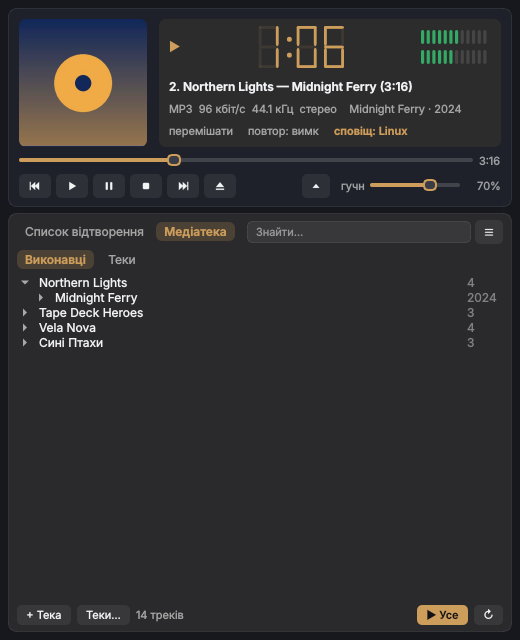
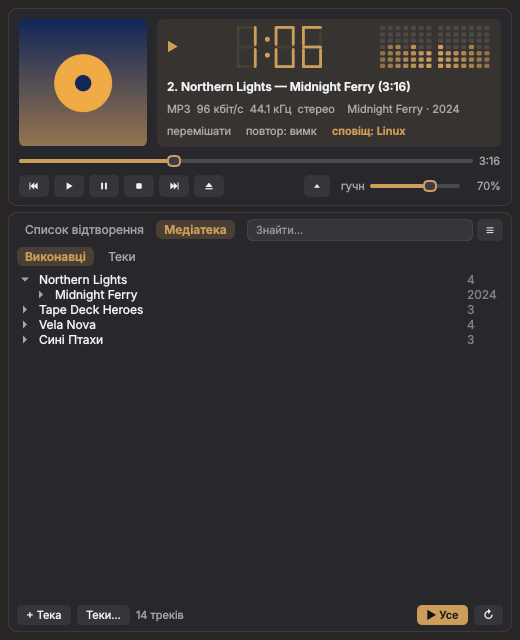
Release 1.3.2: vertical level visualisation, cover-tinted window, tighter compact view
Claude-Session: https://claude.ai/code/session_01HZx8mLPDwnePxQZhdkCTi1

diff --git a/src/plativka/gui.py b/src/plativka/gui.py
@@ -257,59 +257,58 @@ class LcdClock(QWidget):
         p.end()
 
 
-class VuMeter(QWidget):
-    """Індикатор рівня L/R: вертикальні «смужки» (табло) або один рядок (компактний вигляд)."""
+class LevelBars(QWidget):
+    """Візуалізація звуку вертикальними «світлодіодними» стовпчиками.
 
-    def __init__(self, horizontal=False):
+    Посередині — щойно зігране, до країв — кілька секунд тому: ліворуч лівий канал,
+    праворуч правий. Тож видно і гучність, і стерео, і як вона змінювалась.
+    """
+
+    def __init__(self, cols: int = 16, rows: int = 7):
         super().__init__()
-        self.horizontal = horizontal
-        self.levels = [0.0, 0.0]
-        self.peaks = [0.0, 0.0]
-        self.enabled_ = True
+        from collections import deque
+        self.cols, self.rows = cols, rows
+        half = cols // 2
+        self.hist = [deque([0.0] * half, maxlen=half), deque([0.0] * half, maxlen=half)]
+        self.color = QColor("#0E7C84")
         self.dark = False
-        if horizontal:
-            self.setFixedHeight(9)
-        else:
-            self.setFixedSize(70, 34)
+        self.enabled_ = True
 
     def show_levels(self, levels, peaks, ok):
-        self.levels, self.peaks, self.enabled_ = list(levels), list(peaks), ok
+        self.enabled_ = ok
+        for ch in (0, 1):
+            self.hist[ch].append(levels[ch] if ok else 0.0)
         self.update()
 
     def paintEvent(self, e):
         p = QPainter(self)
         p.setRenderHint(QPainter.Antialiasing)
         p.setPen(Qt.NoPen)
-        lo, mid, hi = QColor(52, 170, 100), QColor(214, 168, 30), QColor(222, 84, 58)
-        off = QColor(255, 255, 255, 30) if self.dark else QColor(0, 0, 0, 26)
-        n = 18 if self.horizontal else 12
-        for ch in range(2):
-            lv = self.levels[ch] if self.enabled_ else 0
-            pk = self.peaks[ch] if self.enabled_ else 0
-            for i in range(n):
-                f = i / (n - 1)
-                c = lo if f < .62 else mid if f < .86 else hi
-                lit = f <= lv
-                peak = abs(f - pk) < .5 / n and pk > .05
-                p.setBrush(c if (lit or peak) else off)
-                if self.horizontal:
-                    half = (self.width() - 34) / 2
-                    bw = half / n
-                    x0 = ch * (half + 34) + 14
-                    p.drawRoundedRect(QRectF(x0 + i * bw, 2, bw - 3, self.height() - 4), 1.5, 1.5)
+        half = self.cols // 2
+        gap_mid = 4.0
+        cw = (self.width() - gap_mid) / self.cols
+        rh = self.height() / self.rows
+        off = QColor(255, 255, 255, 26) if self.dark else QColor(0, 0, 0, 22)
+        warm, hot = QColor(226, 168, 34), QColor(222, 80, 58)
+        for c in range(self.cols):
+            if c < half:
+                v = self.hist[0][c]                    # ліворуч: старіше → новіше до центру
+                x = c * cw
+            else:
+                v = self.hist[1][self.cols - 1 - c]    # праворуч: новіше біля центру
+                x = c * cw + gap_mid
+            lit = round(v * self.rows)
+            age = (c if c < half else self.cols - 1 - c) / max(1, half - 1)   # 0 — найстаріше
+            for r in range(self.rows):
+                f = r / max(1, self.rows - 1)
+                if r < lit:
+                    col = QColor(self.color) if f < .6 else (warm if f < .85 else hot)
+                    col.setAlphaF(0.6 + 0.4 * age)
                 else:
-                    bw = (self.width() - 2) / n
-                    hh = (self.height() - 6) / 2
-                    p.drawRoundedRect(QRectF(i * bw, ch * (hh + 6), bw - 2.5, hh), 1.5, 1.5)
-        if self.horizontal:
-            p.setPen(QColor(150, 150, 150))
-            f = QFont(self.font())
-            f.setPointSizeF(7.5)
-            f.setBold(True)
-            p.setFont(f)
-            half = (self.width() - 34) / 2
-            p.drawText(QRectF(0, 0, 12, self.height()), Qt.AlignCenter, "L")
-            p.drawText(QRectF(half + 20, 0, 12, self.height()), Qt.AlignCenter, "R")
+                    col = off
+                p.setBrush(col)
+                y = self.height() - (r + 1) * rh
+                p.drawRoundedRect(QRectF(x + 1, y + 1, cw - 2.5, rh - 2), 1.2, 1.2)
         p.end()
 
 
@@ -632,7 +631,8 @@ class MainWindow(QMainWindow):
         self.clock = LcdClock()
         self.clock.clicked.connect(self.toggle_remaining)
         r1.addWidget(self.clock, 1)
-        self.vu = VuMeter()
+        self.vu = LevelBars(14, 7)
+        self.vu.setFixedSize(112, 44)
         r1.addWidget(self.vu, 0, Qt.AlignVCenter)
         lv.addLayout(r1)
         lv.addSpacing(6)
@@ -649,8 +649,6 @@ class MainWindow(QMainWindow):
             w.setMinimumWidth(10)
             w.setSizePolicy(QSizePolicy.Ignored, QSizePolicy.Preferred)
             lv.addWidget(w)
-        self.mini_vu = VuMeter(horizontal=True)
-        lv.addWidget(self.mini_vu)
         flags = QHBoxLayout()
         flags.setSpacing(14)
         self.f_shuffle = Clickable()
@@ -664,10 +662,15 @@ class MainWindow(QMainWindow):
         flags.addStretch()
         lv.addLayout(flags)
         top.addWidget(self.lcd, 1)
+        self.mini_vu = LevelBars(12, 6)          # компактний вигляд: стовпчики праворуч від назви
+        self.mini_vu.setFixedSize(92, 40)
+        top.addWidget(self.mini_vu, 0, Qt.AlignVCenter)
+        self.top_row = top
         cl.addLayout(top)
 
         sr = QHBoxLayout()
         self.seek = SeekSlider()
+        self.seek.setFixedHeight(16)
         self.seek.seek.connect(lambda f: self.spawn(self.seek_frac(f)))
         sr.addWidget(self.seek, 1)
         self.time = QLabel("-:--")
@@ -687,8 +690,8 @@ class MainWindow(QMainWindow):
                 ("eject", "eject", _("Додати теку до списку"), self.add_playlist_folder)):
             b = QToolButton()
             b.setProperty("glyph", glyph)
-            b.setIconSize(QSize(14, 14))
-            b.setFixedSize(32, 24)
+            b.setIconSize(QSize(12, 12))
+            b.setFixedSize(30, 22)
             b.setToolTip(tip)
             b.setObjectName("tbtn")
             b.setCursor(Qt.PointingHandCursor)
@@ -698,8 +701,8 @@ class MainWindow(QMainWindow):
         tr.addStretch()
         self.pin = QToolButton()
         self.pin.setProperty("glyph", "pin")
-        self.pin.setIconSize(QSize(14, 14))
-        self.pin.setFixedSize(28, 24)
+        self.pin.setIconSize(QSize(12, 12))
+        self.pin.setFixedSize(26, 22)
         self.pin.setToolTip(_("Поверх усіх вікон"))
         self.pin.setObjectName("tbtn")
         self.pin.setCheckable(True)
@@ -707,8 +710,8 @@ class MainWindow(QMainWindow):
         self.pin.clicked.connect(self.toggle_on_top)
         tr.addWidget(self.pin)
         self.collapse_btn = QToolButton()
-        self.collapse_btn.setIconSize(QSize(14, 14))
-        self.collapse_btn.setFixedSize(28, 24)
+        self.collapse_btn.setIconSize(QSize(12, 12))
+        self.collapse_btn.setFixedSize(26, 22)
         self.collapse_btn.setObjectName("tbtn")
         self.collapse_btn.setCursor(Qt.PointingHandCursor)
         self.collapse_btn.clicked.connect(self.toggle_collapsed)
@@ -721,6 +724,7 @@ class MainWindow(QMainWindow):
         self.vol = QSlider(Qt.Horizontal)
         self.vol.setRange(0, 100)
         self.vol.setFixedWidth(90)
+        self.vol.setFixedHeight(16)
         self.vol.setValue(self.volume)
         self.vol.valueChanged.connect(self._vol_moved)
         tr.addWidget(self.vol)
@@ -756,8 +760,8 @@ class MainWindow(QMainWindow):
         head.addWidget(self.search, 1)
         self.menu_btn = QToolButton()
         self.menu_btn.setProperty("glyph", "menu")
-        self.menu_btn.setIconSize(QSize(14, 14))
-        self.menu_btn.setFixedSize(28, 24)
+        self.menu_btn.setIconSize(QSize(12, 12))
+        self.menu_btn.setFixedSize(26, 22)
         self.menu_btn.setObjectName("tbtn")
         self.menu_btn.setPopupMode(QToolButton.InstantPopup)
         head.addWidget(self.menu_btn)
@@ -914,14 +918,29 @@ class MainWindow(QMainWindow):
         sec = tune(self.accent_rgb, dark, .09)
         self.clock.color = QColor(acc)
         self.vu.dark = self.mini_vu.dark = dark
+        self.vu.color = self.mini_vu.color = QColor(acc)
         if self.mica:
             apply_mica(self, dark)
         glass = self.mica
         fg = "#F2F3F5" if dark else "#1A1D24"
         sub = "rgba(255,255,255,0.58)" if dark else "rgba(0,0,0,0.52)"
-        bg = "transparent" if glass else ("#16181E" if dark else "#ECEFF4")
-        card = ("rgba(255,255,255,0.05)" if dark else "rgba(255,255,255,0.58)") if glass else \
-            ("#1E2129" if dark else "#F7F8FB")
+        a = QColor(acc)
+
+        def blend(base: str, k: float) -> str:
+            b = QColor(base)
+            return QColor(round(b.red() + (a.red() - b.red()) * k), round(b.green() + (a.green() - b.green()) * k),
+                          round(b.blue() + (a.blue() - b.blue()) * k)).name()
+
+        def tint(base: str, k: float, alpha: float) -> str:
+            c = QColor(blend(base, k))
+            return f"rgba({c.red()},{c.green()},{c.blue()},{alpha})"
+        # усе вікно, а не лише табло, підфарбоване кольором обкладинки
+        if glass:
+            bg = tint("#202020" if dark else "#F3F3F3", .25, .18 if dark else .22)
+            card = tint("#2B2B2B" if dark else "#FFFFFF", .10, .38 if dark else .55)
+        else:
+            bg = blend("#16181E" if dark else "#ECEFF4", .10 if dark else .08)
+            card = blend("#1E2129" if dark else "#F7F8FB", .06 if dark else .045)
         stroke = "rgba(255,255,255,0.09)" if dark else "rgba(0,0,0,0.08)"
         lcd = QColor(acc)
         lcd.setAlpha(22 if dark else 18)
@@ -932,14 +951,7 @@ class MainWindow(QMainWindow):
         groove = "rgba(255,255,255,0.16)" if dark else "rgba(0,0,0,0.14)"
         btn = "rgba(255,255,255,0.07)" if dark else "rgba(0,0,0,0.055)"
         btn_h = "rgba(255,255,255,0.14)" if dark else "rgba(0,0,0,0.10)"
-        a = QColor(acc)
-        if glass:
-            listcard = f"rgba({a.red()},{a.green()},{a.blue()},{0.07 if dark else 0.06})"
-        else:
-            base = QColor(card)
-            k = .07 if dark else .05
-            listcard = QColor(round(base.red() + (a.red() - base.red()) * k), round(base.green() + (a.green() - base.green()) * k),
-                              round(base.blue() + (a.blue() - base.blue()) * k)).name()
+        listcard = card
         for w in (self.table, self.tree):
             pal = w.palette()
             sel = QColor(acc)
@@ -956,9 +968,10 @@ class MainWindow(QMainWindow):
             #card {{ background: {card}; border: 1px solid {stroke}; border-radius: 8px; }}
             #listcard {{ background: {listcard}; border: 1px solid {stroke}; border-radius: 8px; }}
             #lcd {{ background: {lcd_bg}; border-radius: 7px; }}
+            #lcd[flat="true"] {{ background: transparent; }}
             #state {{ color: {acc}; font-size: 12px; }}
             #title {{ font-size: 12px; font-weight: 600; }}
-            #bigtitle {{ font-size: 14px; font-weight: 600; }}
+            #bigtitle {{ font-size: 13px; font-weight: 600; }}
             #sub {{ color: {acc}; font-size: 12px; }}
             #dim {{ color: {sub}; font-size: 11px; }}
             #empty {{ color: {sub}; font-size: 12px; padding: 16px; }}
@@ -1052,8 +1065,14 @@ class MainWindow(QMainWindow):
         self.collapse_btn.setToolTip(_("Розгорнути") if self.collapsed else _("Міні-плеєр"))
         self.a_view.setChecked(self.view == "compact")
         self.a_mini.setChecked(self.collapsed)
-        self.lcd.layout().setContentsMargins(*(10, 6, 10, 6) if full else (2, 0, 2, 0))
+        self.lcd.layout().setContentsMargins(*(10, 6, 10, 6) if full else (0, 0, 0, 0))
+        self.lcd.layout().setSpacing(2 if full else 1)
         self.lcd.setProperty("flat", not full)
+        self.lcd.style().unpolish(self.lcd)
+        self.lcd.style().polish(self.lcd)
+        self.card.layout().setSpacing(6 if full else 3)
+        self.card.layout().setContentsMargins(*(10, 10, 10, 8) if full else (8, 8, 8, 6))
+        self.top_row.setSpacing(10)
         if self.collapsed:
             self.setMinimumHeight(0)
             QTimer.singleShot(0, self._fit_mini)

diff --git a/src/plativka/__init__.py b/src/plativka/__init__.py
@@ -1,2 +1,2 @@
 """Платівка / Plativka — консольний музичний плеєр у дусі Winamp."""
-__version__ = "1.3.1"
+__version__ = "1.3.2"

diff --git a/docs/release-notes/v1.3.2.md b/docs/release-notes/v1.3.2.md
@@ -1,0 +1,30 @@
+## What's new / Що нового
+
+**English**
+
+- Plativka Desktop: new sound visualisation — vertical LED-style columns (left channel on the left, right on the right, the newest in the middle), in both the full and the compact view.
+- The whole window now takes its colour from the album cover, not only the clock panel.
+- Compact view and mini player are much tighter: less empty space, equal-sized title, buttons and sliders.
+- macOS: playlist rows use the same compact font as the rest; the empty grey bar at the bottom of the window is gone.
+
+**Українська**
+
+- Віконна Платівка: нова візуалізація звуку — вертикальні «світлодіодні» стовпчики (ліворуч лівий канал, праворуч правий, найсвіжіше — посередині), і у великому, і в компактному вигляді.
+- Тепер усе вікно, а не лише табло, бере колір з обкладинки.
+- Компактний вигляд і міні-плеєр значно щільніші: менше порожнього місця, назва, кнопки й повзунки одного масштабу.
+- macOS: рядки списку тим самим компактним шрифтом, що й решта; порожня сіра смуга внизу вікна зникла.
+
+![Plativka Desktop](https://raw.githubusercontent.com/dkindratyuk-web/plativka/main/docs/img/desktop-en-full.png)
+
+## Download / Завантажити
+
+| | Terminal version / Консольна | Desktop (beta) / Віконна (бета) |
+|---|---|---|
+| macOS · Apple Silicon | `Plativka-{{VERSION}}-macos-arm64.dmg` | `Plativka-Desktop-{{VERSION}}-macos-arm64.dmg` |
+| macOS · Intel | `Plativka-{{VERSION}}-macos-x86_64.dmg` | `Plativka-Desktop-{{VERSION}}-macos-x86_64.dmg` |
+| Windows 10/11 | `Plativka-{{VERSION}}-windows-x64-setup.exe` | `Plativka-Desktop-{{VERSION}}-windows-x64-setup.exe` |
+| Linux | `plativka-{{VERSION}}-linux.tar.gz` → `./install.sh` | same archive → `./install.sh --desktop` |
+
+The desktop DMG opens like the terminal one: the first time, allow it in System Settings → Privacy & Security → "Open Anyway". / Віконний DMG відкривається так само: першого разу дозвольте в «Системні параметри → Приватність і безпека → Усе одно відкрити».
+
+Installation guides / Інструкції: [macOS](https://github.com/dkindratyuk-web/plativka/blob/main/docs/en/install-macos.md) · [Windows](https://github.com/dkindratyuk-web/plativka/blob/main/docs/en/install-windows.md) · [Linux](https://github.com/dkindratyuk-web/plativka/blob/main/docs/en/install-linux.md)

diff --git a/CHANGELOG.md b/CHANGELOG.md
@@ -1,5 +1,21 @@
 # Changelog / Історія змін
 
+## 1.3.2
+
+**English**
+
+- Plativka Desktop: new sound visualisation — vertical LED-style columns (left channel on the left, right on the right, the newest in the middle), in both the full and the compact view.
+- The whole window now takes its colour from the album cover, not only the clock panel.
+- Compact view and mini player are much tighter: less empty space, equal-sized title, buttons and sliders.
+- macOS: playlist rows use the same compact font as the rest; the empty grey bar at the bottom of the window is gone.
+
+**Українська**
+
+- Віконна Платівка: нова візуалізація звуку — вертикальні «світлодіодні» стовпчики (ліворуч лівий канал, праворуч правий, найсвіжіше — посередині), і у великому, і в компактному вигляді.
+- Тепер усе вікно, а не лише табло, бере колір з обкладинки.
+- Компактний вигляд і міні-плеєр значно щільніші: менше порожнього місця, назва, кнопки й повзунки одного масштабу.
+- macOS: рядки списку тим самим компактним шрифтом, що й решта; порожня сіра смуга внизу вікна зникла.
+
 ## 1.3.1
 
 **English**
